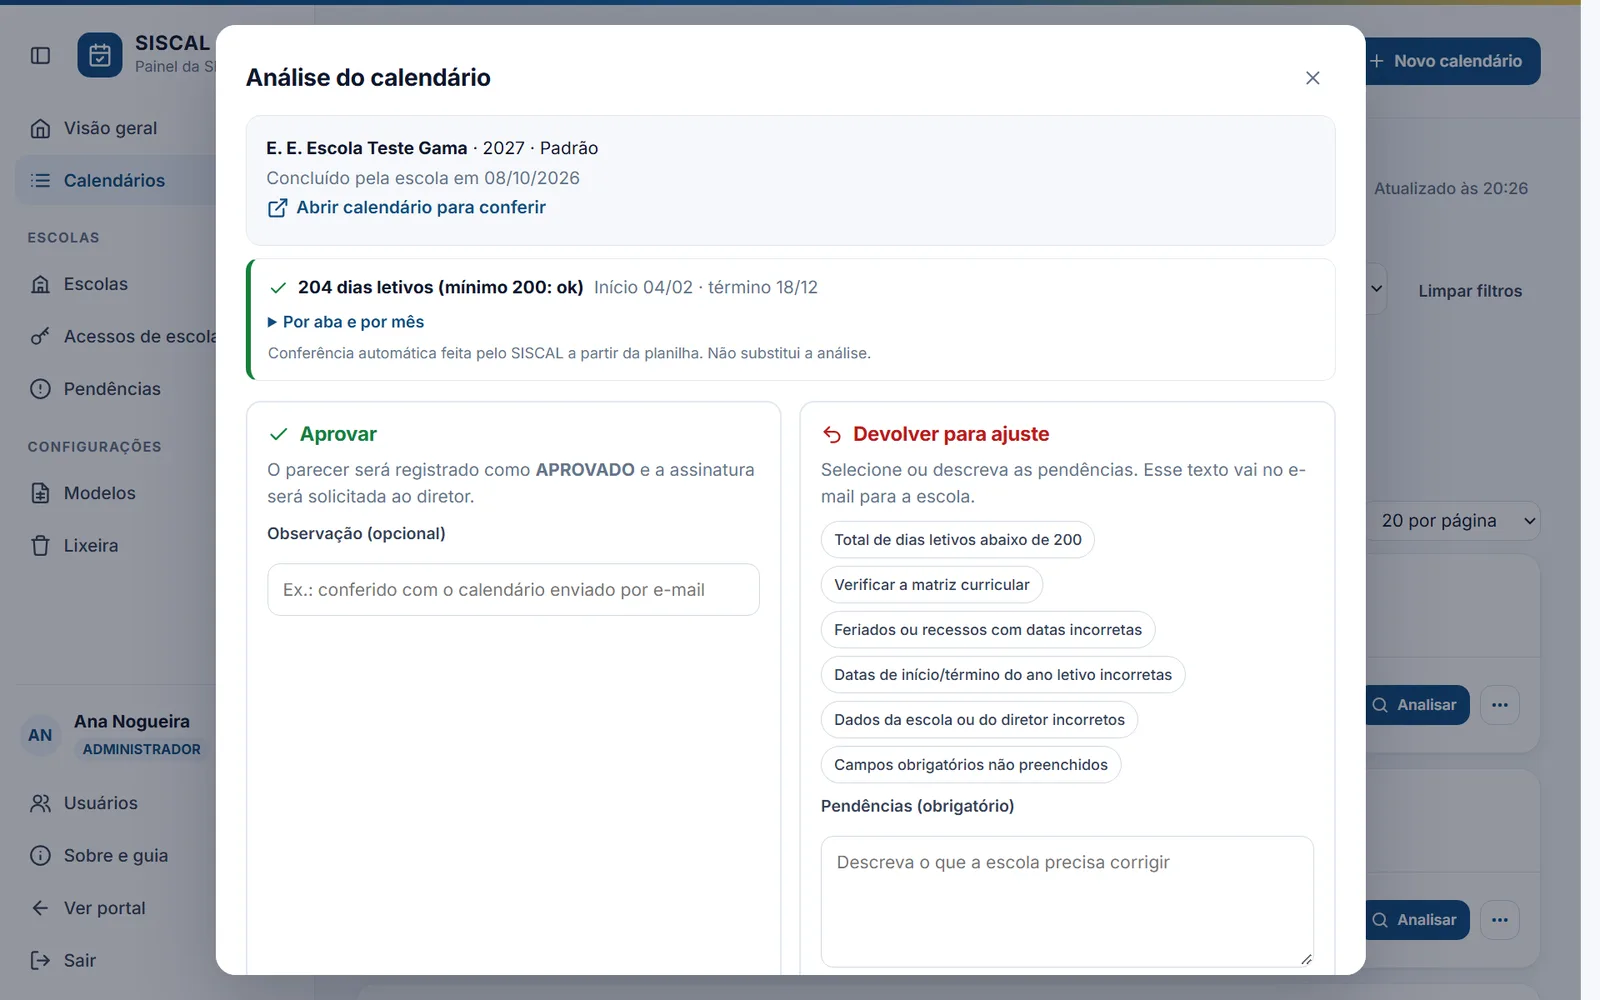
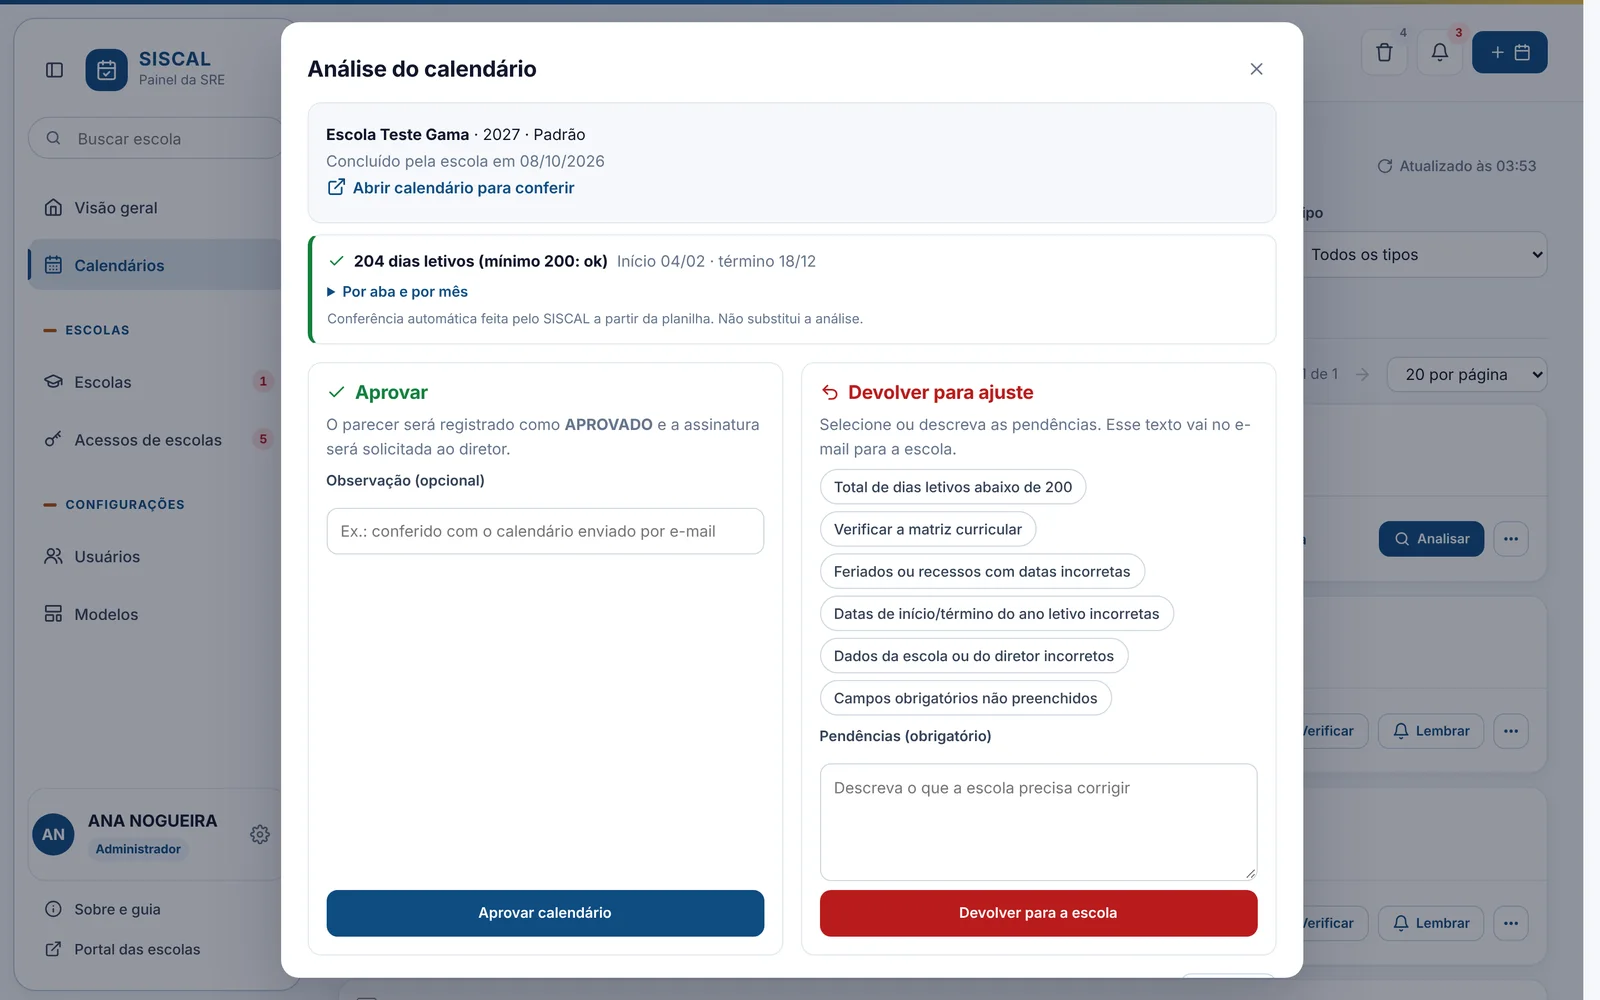
Telas atuais do SISCAL e do SISMAC e telas que descem ao abrir os detalhes

diff --git a/index.html b/index.html
@@ -115,8 +115,8 @@ img{max-width:100%;display:block}
 .janela-barra i:nth-child(1){background:#f87171}.janela-barra i:nth-child(2){background:#fbbf24}.janela-barra i:nth-child(3){background:#4ade80}
 .janela-barra span{margin-left:10px;font-size:11px;color:var(--muted);font-weight:500}
 .janela img{width:100%;aspect-ratio:16/10;object-fit:cover;object-position:top left;background:#fff}
-.vitrine .mini{position:absolute;left:0;bottom:0;width:46%;border-radius:14px;overflow:hidden;box-shadow:var(--shadow-lg);border:4px solid var(--glass-strong)}
-.vitrine .mini img{aspect-ratio:1/0.9;object-fit:cover;object-position:top;background:#fff}
+.vitrine .mini{position:absolute;left:0;bottom:0;width:50%;border-radius:14px;overflow:hidden;box-shadow:var(--shadow-lg);border:4px solid var(--glass-strong)}
+.vitrine .mini img{aspect-ratio:16/10;object-fit:cover;object-position:top left;background:#fff}
 .selo{position:absolute;right:-6px;bottom:22px;display:flex;align-items:center;gap:10px;padding:10px 14px;border-radius:14px;box-shadow:var(--shadow)}
 .selo b{display:block;font-size:20px;line-height:1;color:var(--ink)}
 .selo span{font-size:12px;color:var(--muted)}
@@ -141,12 +141,18 @@ section{padding:88px 0 0}
 .cab p{color:var(--muted);margin-top:10px;font-size:17px}
 
 /* ---------- Projetos ---------- */
-.projeto{display:grid;grid-template-columns:1.1fr 1fr;gap:40px;align-items:center;padding:28px;border-radius:var(--r-xl);box-shadow:var(--shadow);margin-bottom:28px}
+.projeto{display:grid;grid-template-columns:1.1fr 1fr;gap:40px;align-items:start;padding:28px;border-radius:var(--r-xl);box-shadow:var(--shadow);margin-bottom:28px}
 .projeto.inverso{grid-template-columns:1fr 1.1fr}
 .projeto.inverso .proj-midia{order:2}
 @media (max-width:960px){.projeto,.projeto.inverso{grid-template-columns:1fr;gap:24px;padding:20px}.projeto.inverso .proj-midia{order:0}}
 .proj-midia .janela img{aspect-ratio:16/10.5}
-.miniaturas{display:flex;gap:8px;margin-top:12px}
+.miniaturas{display:flex;gap:8px;margin-top:12px;max-height:60px;transition:max-height .4s cubic-bezier(.2,.7,.2,1),opacity .25s ease,margin-top .4s cubic-bezier(.2,.7,.2,1)}
+.projeto.expandido .miniaturas{max-height:0;opacity:0;margin-top:0;pointer-events:none}
+.extras{display:grid;gap:16px;height:0;overflow:hidden}
+.extras>.ampliar:first-child{margin-top:16px}
+.projeto.expandido .extras{height:auto}
+.extras .janela img{aspect-ratio:16/9}
+@media (max-width:960px){.extras{display:none}.projeto.expandido .miniaturas{max-height:60px;opacity:1;margin-top:12px;pointer-events:auto}}
 .miniaturas button{all:unset;cursor:pointer;width:72px;height:48px;border-radius:8px;overflow:hidden;border:2px solid transparent;opacity:.65;transition:opacity .15s,border-color .15s;background:#fff}
 .miniaturas button img{width:100%;height:100%;object-fit:cover;object-position:top}
 .miniaturas button[aria-pressed="true"],.miniaturas button:hover{opacity:1;border-color:var(--brand)}
@@ -292,10 +298,10 @@ dialog .fechar{position:absolute;top:-14px;right:-14px;width:38px;height:38px;bo
 
       <div class="vitrine" aria-hidden="true">
         <div class="janela">
-          <div class="janela-barra"><i></i><i></i><i></i><span>SISCAL · Painel da equipe</span></div>
-          <img src="img/siscal-painel.webp" alt="">
+          <div class="janela-barra"><i></i><i></i><i></i><span>SISCAL · Calendário escolar</span></div>
+          <img src="img/siscal-calendario.webp" alt="">
         </div>
-        <div class="mini"><img src="img/sismac-visao.webp" alt=""></div>
+        <div class="mini"><img src="img/sismac-escola-recorte.webp" alt=""></div>
         <div class="selo glass">
           <span class="ic"><svg class="icon" viewBox="0 0 24 24"><path d="M20 6 9 17l-5-5"/></svg></span>
           <div><b>3 sistemas</b><span>em produção</span></div>
@@ -322,13 +328,16 @@ dialog .fechar{position:absolute;top:-14px;right:-14px;width:38px;height:38px;bo
       <article class="projeto glass surge">
         <div class="proj-midia" data-galeria>
           <button class="ampliar" type="button" aria-label="Ampliar a tela">
-            <div class="janela"><div class="janela-barra"><i></i><i></i><i></i><span>SISMAC</span></div>
-              <img src="img/sismac-analise.webp" alt="SISMAC: análise da matriz pelo inspetor" loading="lazy"></div>
+            <div class="janela"><div class="janela-barra"><i></i><i></i><i></i><span data-titulo-janela>SISMAC · Análise da matriz</span></div><img src="img/sismac-analise.webp" alt="SISMAC: análise da matriz pelo(a) inspetor(a), com o documento" loading="lazy"></div>
           </button>
           <div class="miniaturas">
-            <button type="button" aria-pressed="true" data-src="img/sismac-analise.webp" data-alt="SISMAC: análise da matriz pelo inspetor"><img src="img/sismac-analise.webp" alt="Tela 1: análise da matriz" loading="lazy"></button>
-            <button type="button" aria-pressed="false" data-src="img/sismac-modelo.webp" data-alt="SISMAC: modelo indicado à escola, com a carga horária"><img src="img/sismac-modelo.webp" alt="Tela 2: modelo indicado à escola" loading="lazy"></button>
-            <button type="button" aria-pressed="false" data-src="img/sismac-visao.webp" data-alt="SISMAC: visão geral do inspetor"><img src="img/sismac-visao.webp" alt="Tela 3: visão geral do inspetor" loading="lazy"></button>
+            <button type="button" aria-pressed="true" data-src="img/sismac-analise.webp" data-alt="SISMAC: análise da matriz pelo(a) inspetor(a), com o documento" data-titulo="SISMAC · Análise da matriz"><img src="img/sismac-analise.webp" alt="Tela 1: análise da matriz" loading="lazy"></button>
+            <button type="button" aria-pressed="false" data-src="img/sismac-escola.webp" data-alt="SISMAC: área da escola com as matrizes por situação" data-titulo="SISMAC · Área da escola"><img src="img/sismac-escola.webp" alt="Tela 2: área da escola" loading="lazy"></button>
+            <button type="button" aria-pressed="false" data-src="img/sismac-concluida.webp" data-alt="SISMAC: matriz concluída e assinada eletronicamente" data-titulo="SISMAC · Matriz assinada"><img src="img/sismac-concluida.webp" alt="Tela 3: matriz assinada" loading="lazy"></button>
+          </div>
+          <div class="extras" inert>
+            <button class="ampliar" type="button" aria-label="Ampliar: Área da escola"><div class="janela"><div class="janela-barra"><i></i><i></i><i></i><span>SISMAC · Área da escola</span></div><img src="img/sismac-escola.webp" alt="SISMAC: área da escola com as matrizes por situação" loading="lazy"></div></button>
+            <button class="ampliar" type="button" aria-label="Ampliar: Matriz assinada"><div class="janela"><div class="janela-barra"><i></i><i></i><i></i><span>SISMAC · Matriz assinada</span></div><img src="img/sismac-concluida.webp" alt="SISMAC: matriz concluída e assinada eletronicamente" loading="lazy"></div></button>
           </div>
         </div>
         <div>
@@ -361,13 +370,16 @@ dialog .fechar{position:absolute;top:-14px;right:-14px;width:38px;height:38px;bo
       <article class="projeto inverso glass surge">
         <div class="proj-midia" data-galeria>
           <button class="ampliar" type="button" aria-label="Ampliar a tela">
-            <div class="janela"><div class="janela-barra"><i></i><i></i><i></i><span>SISCAL</span></div>
-              <img src="img/siscal-painel.webp" alt="SISCAL: painel da equipe" loading="lazy"></div>
+            <div class="janela"><div class="janela-barra"><i></i><i></i><i></i><span data-titulo-janela>SISCAL · Preenchimento do calendário</span></div><img src="img/siscal-calendario.webp" alt="SISCAL: preenchimento digital do calendário com a contagem dos dias letivos" loading="lazy"></div>
           </button>
           <div class="miniaturas">
-            <button type="button" aria-pressed="true" data-src="img/siscal-painel.webp" data-alt="SISCAL: painel da equipe"><img src="img/siscal-painel.webp" alt="Tela 1: painel da equipe" loading="lazy"></button>
-            <button type="button" aria-pressed="false" data-src="img/siscal-analise.webp" data-alt="SISCAL: análise do calendário com conferência automática"><img src="img/siscal-analise.webp" alt="Tela 2: análise com conferência automática" loading="lazy"></button>
-            <button type="button" aria-pressed="false" data-src="img/siscal-escola.webp" data-alt="SISCAL: área da escola com as etapas do calendário"><img src="img/siscal-escola.webp" alt="Tela 3: área da escola" loading="lazy"></button>
+            <button type="button" aria-pressed="true" data-src="img/siscal-calendario.webp" data-alt="SISCAL: preenchimento digital do calendário com a contagem dos dias letivos" data-titulo="SISCAL · Preenchimento do calendário"><img src="img/siscal-calendario.webp" alt="Tela 1: preenchimento do calendário" loading="lazy"></button>
+            <button type="button" aria-pressed="false" data-src="img/siscal-analise.webp" data-alt="SISCAL: análise do calendário com conferência automática" data-titulo="SISCAL · Análise com conferência automática"><img src="img/siscal-analise.webp" alt="Tela 2: análise com conferência automática" loading="lazy"></button>
+            <button type="button" aria-pressed="false" data-src="img/siscal-painel.webp" data-alt="SISCAL: visão geral do painel da equipe" data-titulo="SISCAL · Painel da equipe"><img src="img/siscal-painel.webp" alt="Tela 3: painel da equipe" loading="lazy"></button>
+          </div>
+          <div class="extras" inert>
+            <button class="ampliar" type="button" aria-label="Ampliar: Análise com conferência automática"><div class="janela"><div class="janela-barra"><i></i><i></i><i></i><span>SISCAL · Análise com conferência automática</span></div><img src="img/siscal-analise.webp" alt="SISCAL: análise do calendário com conferência automática" loading="lazy"></div></button>
+            <button class="ampliar" type="button" aria-label="Ampliar: Painel da equipe"><div class="janela"><div class="janela-barra"><i></i><i></i><i></i><span>SISCAL · Painel da equipe</span></div><img src="img/siscal-painel.webp" alt="SISCAL: visão geral do painel da equipe" loading="lazy"></div></button>
           </div>
         </div>
         <div>
@@ -400,12 +412,11 @@ dialog .fechar{position:absolute;top:-14px;right:-14px;width:38px;height:38px;bo
       <article class="projeto glass surge">
         <div class="proj-midia" data-galeria>
           <button class="ampliar" type="button" aria-label="Ampliar a tela">
-            <div class="janela"><div class="janela-barra"><i></i><i></i><i></i><span>Meu Plano UFU</span></div>
-              <img src="img/ufu-inicio.webp" alt="Meu Plano UFU: tela inicial" loading="lazy"></div>
+            <div class="janela"><div class="janela-barra"><i></i><i></i><i></i><span data-titulo-janela>Meu Plano UFU · Tela inicial</span></div><img src="img/ufu-inicio.webp" alt="Meu Plano UFU: tela inicial" loading="lazy"></div>
           </button>
           <div class="miniaturas">
-            <button type="button" aria-pressed="true" data-src="img/ufu-inicio.webp" data-alt="Meu Plano UFU: tela inicial"><img src="img/ufu-inicio.webp" alt="Tela 1: tela inicial" loading="lazy"></button>
-            <button type="button" aria-pressed="false" data-src="img/ufu-hoje.webp" data-alt="Meu Plano UFU: cronograma do dia no tema escuro"><img src="img/ufu-hoje.webp" alt="Tela 2: cronograma do dia" loading="lazy"></button>
+            <button type="button" aria-pressed="true" data-src="img/ufu-inicio.webp" data-alt="Meu Plano UFU: tela inicial" data-titulo="Meu Plano UFU · Tela inicial"><img src="img/ufu-inicio.webp" alt="Tela 1: tela inicial" loading="lazy"></button>
+            <button type="button" aria-pressed="false" data-src="img/ufu-hoje.webp" data-alt="Meu Plano UFU: cronograma do dia no tema escuro" data-titulo="Meu Plano UFU · Cronograma do dia"><img src="img/ufu-hoje.webp" alt="Tela 2: cronograma do dia" loading="lazy"></button>
           </div>
         </div>
         <div>
@@ -516,11 +527,14 @@ dialog .fechar{position:absolute;top:-14px;right:-14px;width:38px;height:38px;bo
     botoes.forEach(function(b){
       b.addEventListener("click",function(){
         principal.src=b.getAttribute("data-src"); principal.alt=b.getAttribute("data-alt");
+        var tit=g.querySelector("[data-titulo-janela]"); if(tit) tit.textContent=b.getAttribute("data-titulo");
         botoes.forEach(function(o){o.setAttribute("aria-pressed",o===b?"true":"false");});
       });
     });
-    g.querySelector(".ampliar").addEventListener("click",function(){
-      zImg.src=principal.src; zImg.alt=principal.alt; zLeg.textContent=principal.alt; dlg.showModal();
+  });
+  document.querySelectorAll(".ampliar").forEach(function(btn){
+    btn.addEventListener("click",function(){
+      var im=btn.querySelector("img"); zImg.src=im.src; zImg.alt=im.alt; zLeg.textContent=im.alt; dlg.showModal();
     });
   });
   document.getElementById("fechar").addEventListener("click",function(){dlg.close();});
@@ -547,7 +561,28 @@ dialog .fechar{position:absolute;top:-14px;right:-14px;width:38px;height:38px;bo
   addEventListener("scroll",marcar,{passive:true}); marcar();
 
   /* Abrir e fechar os detalhes com a altura animada (funciona também no Safari do iPhone). */
-  var calmo=matchMedia("(prefers-reduced-motion: reduce)");
+  var calmo=matchMedia("(prefers-reduced-motion: reduce)"), largo=matchMedia("(min-width: 961px)");
+  var SUAVE="cubic-bezier(.2,.7,.2,1)";
+  /* Com os detalhes abertos, as outras telas do projeto descem uma embaixo da outra, no espaço ao lado do texto. */
+  function expandirGaleria(d,abrir){
+    var art=d.closest(".projeto"), ex=art&&art.querySelector(".extras");
+    if(!ex) return;
+    var g=art.querySelector("[data-galeria]"), b1=g.querySelector(".miniaturas button");
+    if(abrir&&b1&&b1.getAttribute("aria-pressed")!=="true") b1.click();
+    var inicio=ex.getBoundingClientRect().height;
+    if(ex._anim){ex._anim.cancel();ex._anim=null;}
+    art.classList.toggle("expandido",abrir);
+    if(abrir) ex.removeAttribute("inert"); else ex.setAttribute("inert","");
+    if(calmo.matches||!largo.matches||!ex.animate) return;
+    var alvo=abrir?ex.scrollHeight:0;
+    ex._anim=ex.animate([{height:inicio+"px"},{height:alvo+"px"}],{duration:abrir?560:380,easing:SUAVE});
+    ex._anim.onfinish=function(){ex._anim=null;};
+    var filhos=[].slice.call(ex.children);
+    filhos.forEach(function(c,i){
+      if(abrir) c.animate([{opacity:0,transform:"translateY(-18px) scale(.97)"},{opacity:1,transform:"none"}],{duration:460,delay:140+i*120,easing:SUAVE,fill:"backwards"});
+      else c.animate([{opacity:1,transform:"none"},{opacity:0,transform:"translateY(-12px) scale(.97)"}],{duration:380,easing:SUAVE});
+    });
+  }
   document.querySelectorAll("details.mais").forEach(function(d){
     var resumo=d.querySelector("summary"), corpo=d.querySelector(".mais-corpo"), anim=null;
     function fim(aberto){anim=null;corpo.style.height="";d.classList.toggle("aberto",aberto);if(!aberto)d.open=false;}
@@ -558,6 +593,7 @@ dialog .fechar{position:absolute;top:-14px;right:-14px;width:38px;height:38px;bo
       var inicio=(d.open&&(anim||d.classList.contains("aberto")))?corpo.getBoundingClientRect().height:0;
       if(anim){anim.cancel();anim=null;}
       if(abrir){d.open=true;d.classList.add("aberto");}else{d.classList.remove("aberto");}
+      expandirGaleria(d,abrir);
       if(calmo.matches||!corpo.animate){fim(abrir);return;}
       var alvo=abrir?corpo.scrollHeight:0;
       if(abrir&&!inicio){corpo.classList.add("entrando");requestAnimationFrame(function(){requestAnimationFrame(function(){corpo.classList.remove("entrando");});});}
